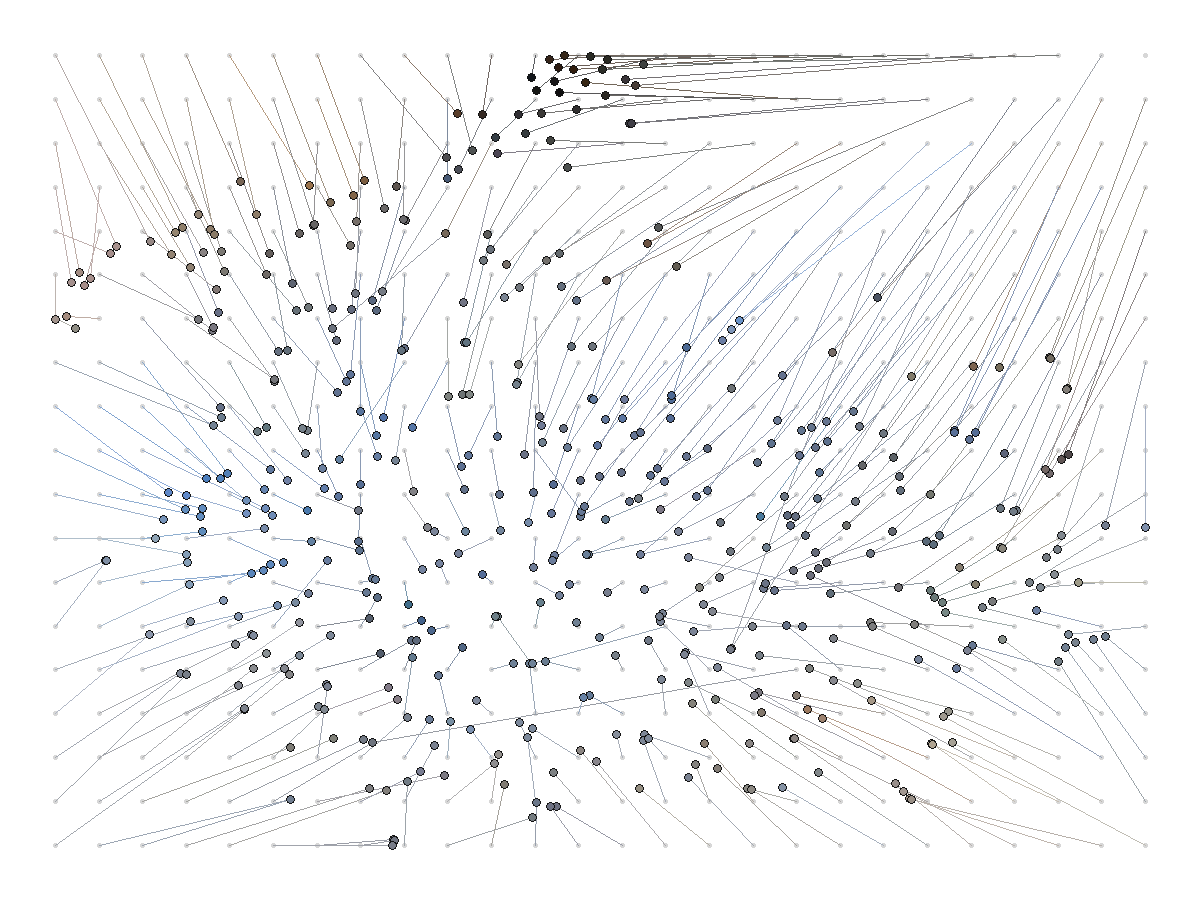
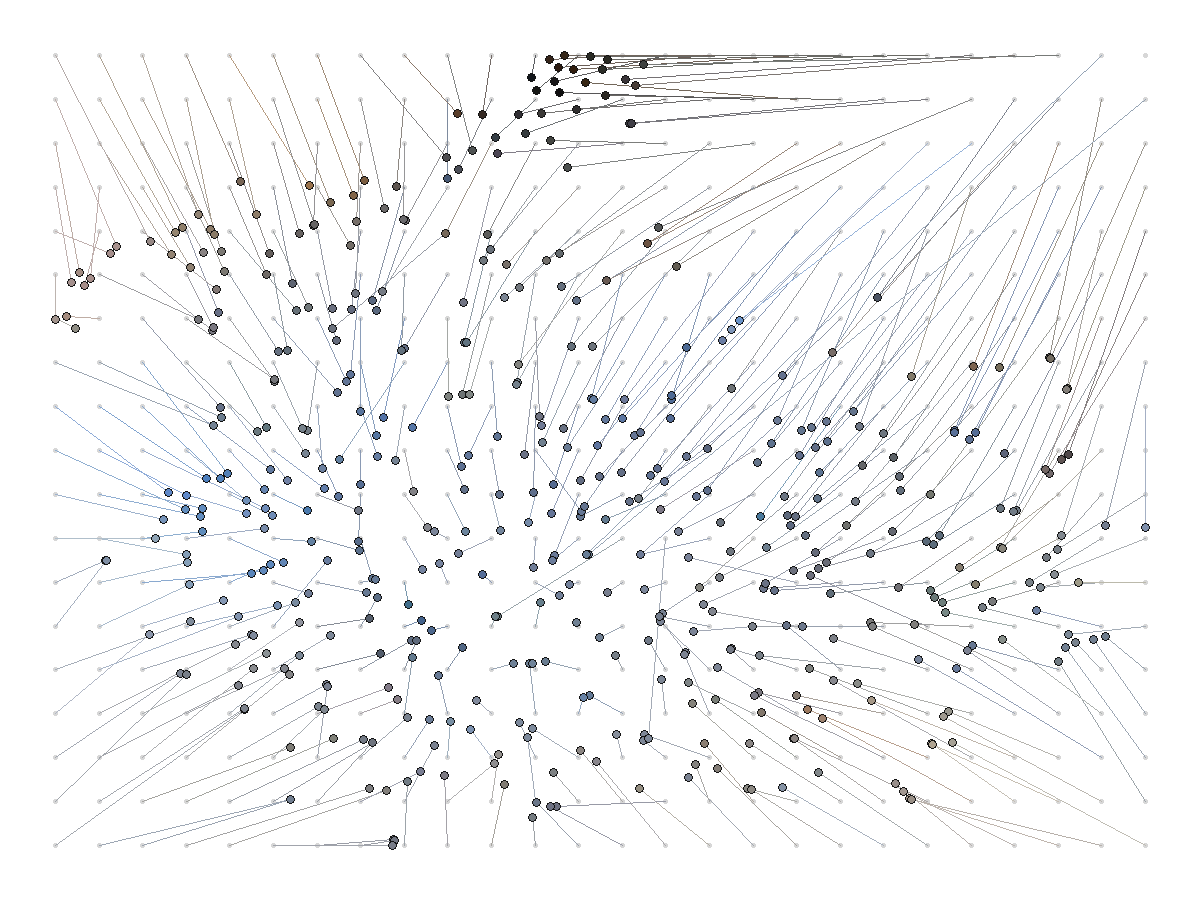
Use C Sinkhorn for mosaic generation

Changed region(s): [[0.6783, 0.4044, 0.7092, 0.4667], [0.74, 0.3111, 0.7708, 0.3422], [0.4933, 0.5911, 0.5242, 0.6222]]

diff --git a/image_grid_sinkhorn.py b/image_grid_sinkhorn.py
@@ -7,6 +7,7 @@ import math
 import os
 from dataclasses import dataclass
 from pathlib import Path
+from typing import Callable
 
 import numpy as np
 from PIL import Image, ImageDraw, ImageOps
@@ -21,6 +22,8 @@ from scipy.optimize import linear_sum_assignment
 
 
 IMAGE_EXTENSIONS = {".jpg", ".jpeg", ".png", ".webp"}
+SinkhornFn = Callable[[np.ndarray, float], tuple[np.ndarray, float, float, int]]
+HungarianFn = Callable[[np.ndarray], tuple[np.ndarray, np.ndarray]]
 
 
 @dataclass(frozen=True)
@@ -247,6 +250,50 @@ def sinkhorn_log(
     return plan, row_error, col_error, iterations
 
 
+def load_c_runner(build: bool):
+    from sinkhorn_mt_benchmark import SinkhornMT, build_library, library_path
+
+    if build or not library_path().exists():
+        build_library()
+    return SinkhornMT()
+
+
+def make_sinkhorn_fn(
+    backend: str,
+    iterations: int,
+    tol: float,
+    threads: int,
+    c_runner,
+) -> SinkhornFn:
+    if backend == "python":
+        def run_python(cost: np.ndarray, epsilon: float) -> tuple[np.ndarray, float, float, int]:
+            return sinkhorn_log(cost, epsilon=epsilon, iterations=iterations, tol=tol)
+
+        return run_python
+
+    if c_runner is None:
+        raise ValueError("C Sinkhorn backend needs a C runner")
+
+    def run_c(cost: np.ndarray, epsilon: float) -> tuple[np.ndarray, float, float, int]:
+        if cost.shape[0] != cost.shape[1]:
+            raise ValueError("C Sinkhorn backend needs a square augmented cost matrix")
+        result = c_runner.run(
+            cost,
+            epsilon=epsilon,
+            iterations=iterations,
+            threads=threads,
+            return_plan=True,
+        )
+        return (
+            np.asarray(result["plan"], dtype=np.float64),
+            float(result["row_error"]),
+            float(result["col_error"]),
+            iterations,
+        )
+
+    return run_c
+
+
 def augment_cost(cost: np.ndarray, cell_count: int) -> np.ndarray:
     image_count = cost.shape[0]
     if image_count > cell_count:
@@ -302,8 +349,8 @@ def recursive_sinkhorn_round(
     image_count: int,
     seed: int,
     epsilon: float,
-    iterations: int,
-    tol: float,
+    sinkhorn_fn: SinkhornFn,
+    hungarian_fn: HungarianFn,
     max_rounds: int,
     candidates_per_image: int,
     repair_epsilon_scale: float,
@@ -372,11 +419,9 @@ def recursive_sinkhorn_round(
 
         local_cost = cost[np.ix_(repair_images, candidate_cells)]
         repair_epsilon = max(epsilon * (repair_scale ** repair_round), 1e-8)
-        local_plan, _, _, _ = sinkhorn_log(
+        local_plan, _, _, _ = sinkhorn_fn(
             augment_cost(local_cost, candidate_cells.size),
-            epsilon=repair_epsilon,
-            iterations=iterations,
-            tol=tol,
+            repair_epsilon,
         )
         local_scores = local_plan[:repair_images.size, :].copy()
         local_scores += rng.random(local_scores.shape) * 1e-12
@@ -401,7 +446,7 @@ def recursive_sinkhorn_round(
         locked_cells[assigned[stable]] = True
         candidate_cells = np.flatnonzero(~locked_cells)
         local_cost = cost[np.ix_(repair_images, candidate_cells)]
-        local_assigned, _ = hungarian_assign(local_cost)
+        local_assigned, _ = hungarian_fn(local_cost)
         assigned[repair_images] = candidate_cells[local_assigned]
         stats["final_hungarian_fallbacks"] += 1
         stats["local_repairs"] += 1
@@ -411,6 +456,18 @@ def recursive_sinkhorn_round(
     assigned_score = plan[np.arange(image_count), assigned]
     assigned_cost = cost[np.arange(image_count), assigned]
     return assigned, assigned_score, assigned_cost, margin, stats
+
+
+def c_hungarian_assign(cost: np.ndarray, c_runner) -> tuple[np.ndarray, np.ndarray]:
+    if c_runner is None:
+        raise ValueError("C Hungarian backend needs a C runner")
+    if cost.shape[0] > cost.shape[1]:
+        raise ValueError("C Hungarian adapter needs at least as many columns as rows")
+    augmented = augment_cost(cost, cost.shape[1])
+    result = c_runner.run_hungarian(augmented, return_perm=True)
+    assigned = np.asarray(result["perm"][:cost.shape[0]], dtype=int)
+    assigned_cost = cost[np.arange(cost.shape[0]), assigned]
+    return assigned, assigned_cost
 
 
 def hungarian_assign(cost: np.ndarray) -> tuple[np.ndarray, np.ndarray]:
@@ -723,6 +780,29 @@ def main() -> None:
     parser.add_argument("--epsilon", type=float, default=None)
     parser.add_argument("--epsilon-scale", type=float, default=1.0)
     parser.add_argument(
+        "--sinkhorn-backend",
+        choices=("python", "c"),
+        default="python",
+        help="Sinkhorn implementation used for the transport plan.",
+    )
+    parser.add_argument(
+        "--sinkhorn-threads",
+        type=int,
+        default=8,
+        help="Thread count for the C Sinkhorn backend.",
+    )
+    parser.add_argument(
+        "--hungarian-backend",
+        choices=("scipy", "c"),
+        default="scipy",
+        help="Exact assignment implementation used for comparison and fallback.",
+    )
+    parser.add_argument(
+        "--build-c-library",
+        action="store_true",
+        help="Build libsinkhorn_mt before using a C backend.",
+    )
+    parser.add_argument(
         "--rounding",
         choices=("greedy", "recursive-sinkhorn"),
         default="greedy",
@@ -796,13 +876,34 @@ def main() -> None:
         epsilon = auto_epsilon(cost, args.epsilon_scale)
     print(f"grid = {rows} x {cols} ({rows * cols} cells), epsilon = {epsilon:.6g}")
 
-    print("running log-domain Sinkhorn")
-    augmented_cost = augment_cost(cost, rows * cols)
-    plan, row_error, col_error, used_iterations = sinkhorn_log(
-        augmented_cost,
-        epsilon=epsilon,
+    c_runner = None
+    if args.sinkhorn_backend == "c" or args.hungarian_backend == "c":
+        c_runner = load_c_runner(args.build_c_library)
+
+    if args.hungarian_backend == "c":
+        def exact_assign(candidate_cost: np.ndarray) -> tuple[np.ndarray, np.ndarray]:
+            return c_hungarian_assign(candidate_cost, c_runner)
+    else:
+        exact_assign = hungarian_assign
+
+    sinkhorn_fn = make_sinkhorn_fn(
+        args.sinkhorn_backend,
         iterations=args.sinkhorn_iterations,
         tol=args.sinkhorn_tol,
+        threads=args.sinkhorn_threads,
+        c_runner=c_runner,
+    )
+
+    backend_label = (
+        f"C Sinkhorn ({args.sinkhorn_threads} threads)"
+        if args.sinkhorn_backend == "c"
+        else "log-domain Python Sinkhorn"
+    )
+    print(f"running {backend_label}")
+    augmented_cost = augment_cost(cost, rows * cols)
+    plan, row_error, col_error, used_iterations = sinkhorn_fn(
+        augmented_cost,
+        epsilon,
     )
     print(
         "sinkhorn iterations = "
@@ -825,8 +926,8 @@ def main() -> None:
                 image_count=len(loaded),
                 seed=args.seed,
                 epsilon=epsilon,
-                iterations=args.sinkhorn_iterations,
-                tol=args.sinkhorn_tol,
+                sinkhorn_fn=sinkhorn_fn,
+                hungarian_fn=exact_assign,
                 max_rounds=args.repair_rounds,
                 candidates_per_image=args.repair_candidates,
                 repair_epsilon_scale=args.repair_epsilon_scale,
@@ -853,8 +954,8 @@ def main() -> None:
         f"mean margin = {top_margin.mean():.6g}"
     )
 
-    print("running exact Hungarian assignment")
-    hungarian_assigned, hungarian_cost = hungarian_assign(cost)
+    print(f"running exact Hungarian assignment ({args.hungarian_backend})")
+    hungarian_assigned, hungarian_cost = exact_assign(cost)
     print(
         f"hungarian: mean cost = {hungarian_cost.mean():.6g}, "
         f"total cost = {hungarian_cost.sum():.6g}"
@@ -954,10 +1055,11 @@ def main() -> None:
         out_path=marked_hungarian,
         highlight_cells=changed,
     )
+    sinkhorn_prefix = "C Sinkhorn" if args.sinkhorn_backend == "c" else "Sinkhorn"
     sinkhorn_label = (
-        "Sinkhorn greedy"
+        f"{sinkhorn_prefix} greedy"
         if args.rounding == "greedy"
-        else "Sinkhorn recursive repair"
+        else f"{sinkhorn_prefix} recursive repair"
     )
     render_side_by_side(
         args.out,

diff --git a/README.md b/README.md
@@ -44,6 +44,9 @@ recreate the mosaics and comparison outputs, run:
 
 ```bash
 uv run python image_grid_sinkhorn.py \
+  --sinkhorn-backend c \
+  --sinkhorn-threads 8 \
+  --hungarian-backend c \
   --input andros_thumbnails \
   --out outputs/andros_sinkhorn_mosaic.png \
   --layout outputs/andros_sinkhorn_layout.csv \
@@ -51,10 +54,13 @@ uv run python image_grid_sinkhorn.py \
   --hungarian-debug outputs/andros_hungarian_debug.png
 ```
 
+Add `--rounding recursive-sinkhorn` to use the recursive local Sinkhorn repair
+mode.
+
 The script extracts simple visual features, runs PCA followed by t-SNE, solves a
-log-domain Sinkhorn transport problem from embedding coordinates to grid
-coordinates, and rounds the soft plan into a one-image-per-cell layout. It also
-computes the exact Hungarian grid assignment on the same embedding and writes:
+Sinkhorn transport problem from embedding coordinates to grid coordinates, and
+rounds the soft plan into a one-image-per-cell layout. It also computes the
+exact Hungarian grid assignment on the same embedding and writes:
 
 - `outputs/andros_sinkhorn_mosaic.png`
 - `outputs/andros_hungarian_mosaic.png`
@@ -81,6 +87,21 @@ rounds. In this mosaic, `m` is usually close to `n`.
 | Greedy Sinkhorn | `O(T n m) + O(n m log m)` | `O(n m)` | Fast soft transport, then greedy one-to-one rounding. Approximate. |
 | Recursive Sinkhorn | `O(T n m) + sum_r O(T k_r l_r) + optional O(k^3)` | `O(n m) + O(max_r k_r l_r)` | Starts from Sinkhorn argmax and repairs duplicate cells locally. Approximate unless the final local Hungarian fallback is used. |
 | Full Hungarian | `O(n^2 m)`, or `O(n^3)` when `m ~= n` | `O(n m)` | Exact minimum-cost one-to-one assignment. |
+
+Measured on the Andros mosaic problem after feature extraction and t-SNE:
+`n = 493` images, `m = 494` grid cells, grid `19 x 26`, global Sinkhorn
+iterations `T = 1500`. Sinkhorn uses the pthread C implementation with 8
+threads. Hungarian uses the serial C implementation from the same shared
+library. Times are the median of five runs on an Apple Silicon `arm64` machine
+and exclude image loading, feature extraction, t-SNE, and rendering. The
+recursive run used six local Sinkhorn repair rounds and one final local C
+Hungarian fallback to guarantee unique cells.
+
+| Method | Implementation | Threads | Median time | Run times | Mean assignment cost | Relative to Hungarian |
+|---|---|---:|---:|---:|---:|---:|
+| Greedy Sinkhorn | C Sinkhorn + Python greedy rounding | `8` | `0.143 s` | `0.146, 0.145, 0.141, 0.141, 0.143 s` | `0.029803` | `4.8x slower` |
+| Recursive Sinkhorn | C Sinkhorn repairs + final local C Hungarian fallback | `8` | `0.375 s` | `0.370, 0.375, 0.377, 0.376, 0.375 s` | `0.022157` | `12.4x slower` |
+| Full Hungarian | C Hungarian | `1` | `0.030 s` | `0.031, 0.030, 0.030, 0.030, 0.030 s` | `0.020552` | `1x` |
 
 ### Example Debug Plots
 